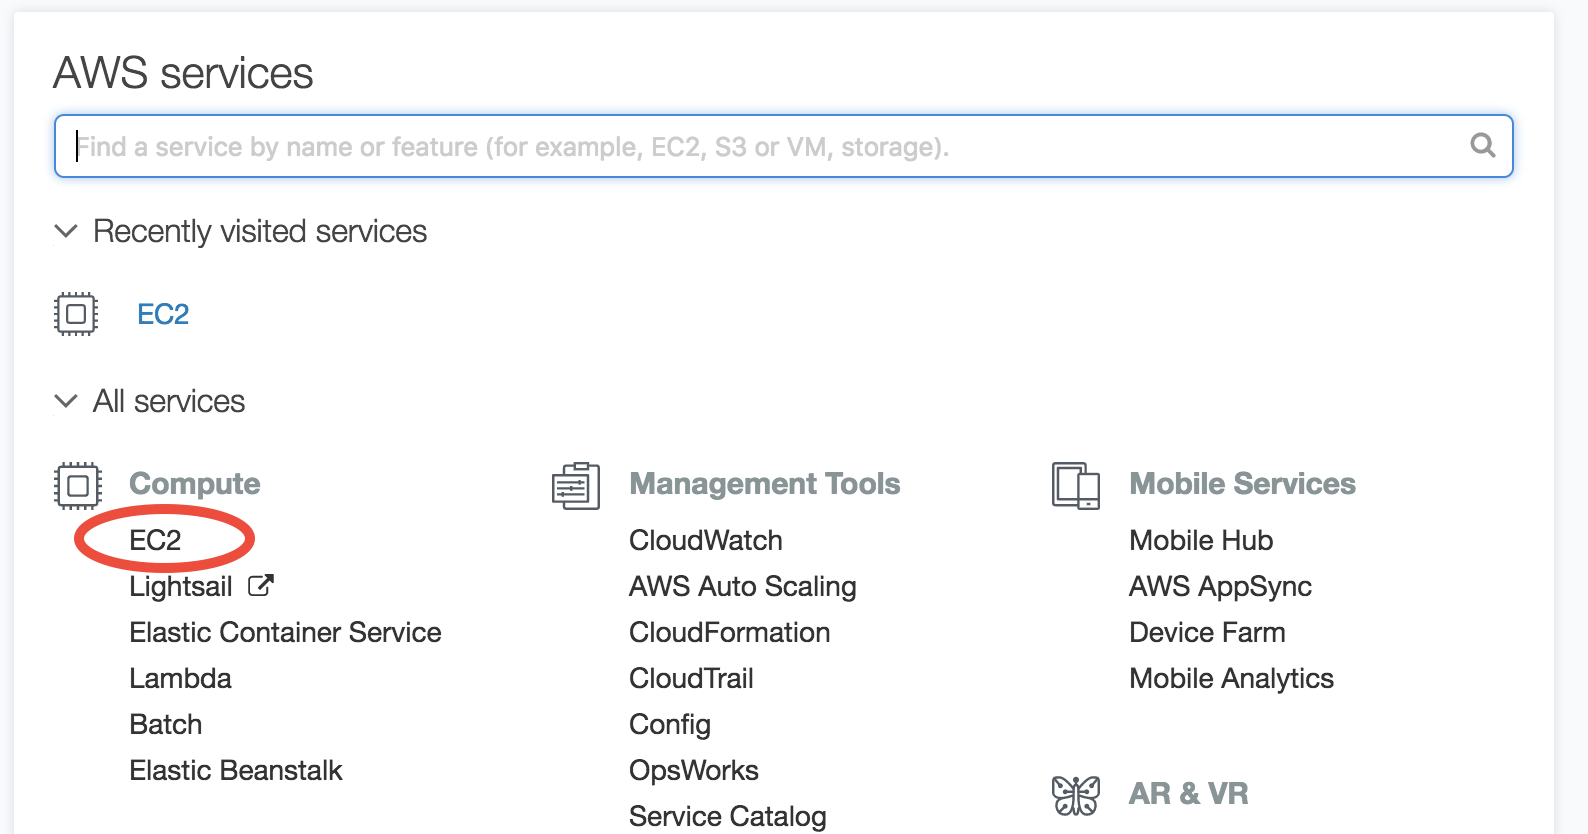
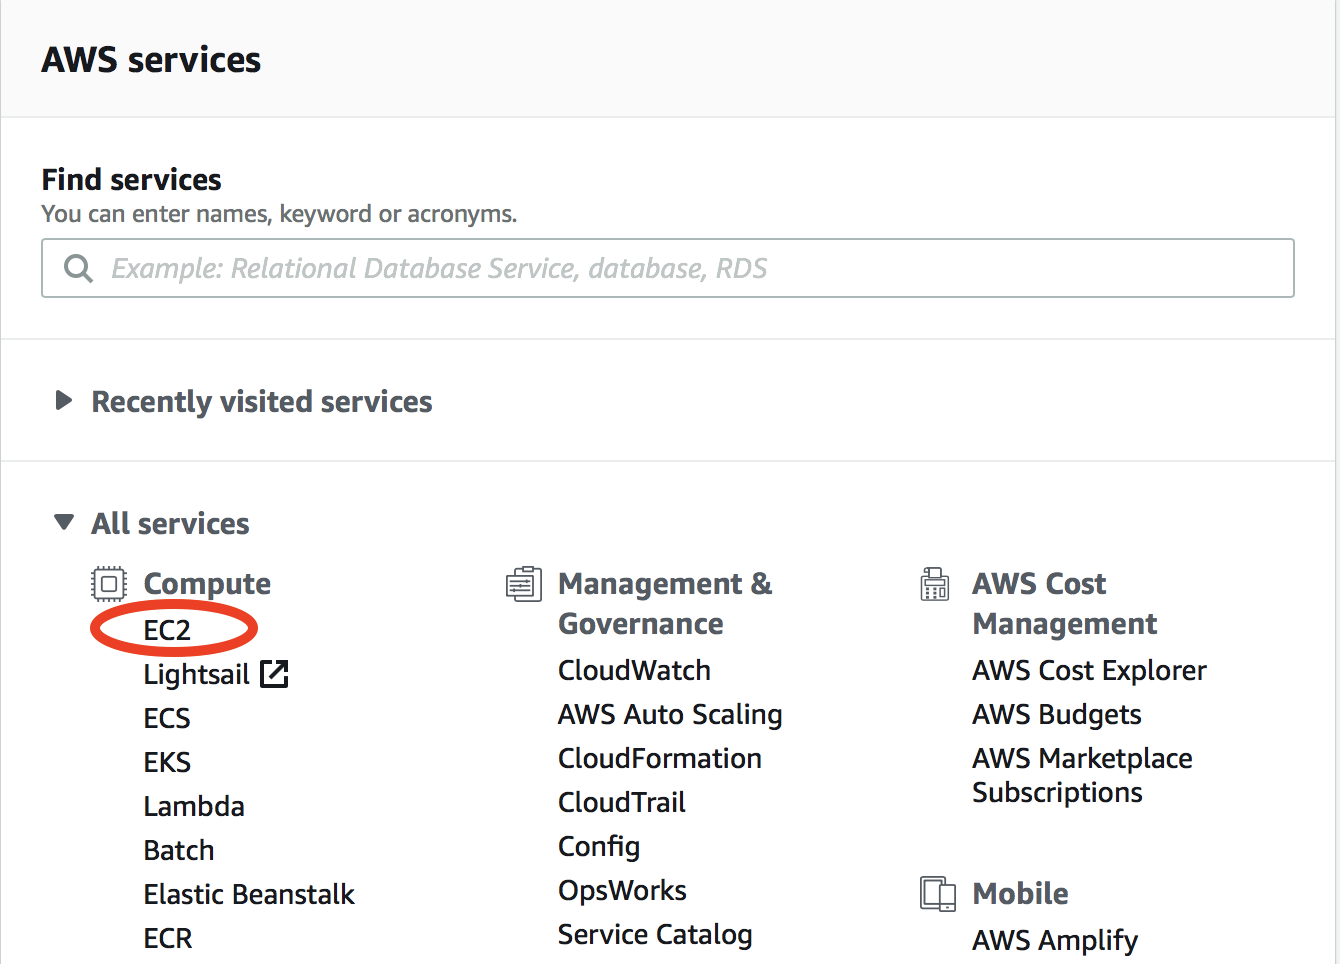
Update screenshots for new console

diff --git a/doc/source/chapter02_beginner-tutorial/basic-aws-services.rst b/doc/source/chapter02_beginner-tutorial/basic-aws-services.rst
@@ -6,19 +6,18 @@ In the :ref:`quick start guide <quick-start-label>`, you have used **EC2 (Elasti
 AWS has hundreds of services (shown in the main console; see the figure below), and EC2 is just one of them. Fortunately, a tiny subset of services is enough for scientific computing. The most important services are **EC2** for compute and **S3** for storage. Tons of other services are targeted at IT/Business applications that scientists can safely ignore:
 
 .. image:: img/aws_services.png
+  :width: 600 px
 
 Core AWS concepts for scientific computing
 ------------------------------------------
 
 In this section you will familiarize yourself with the following concepts and their costs: EC2, Spot Instances, AMI, EBS, S3, and Data egress charge.
 
-- `EC2 (Elastic Compute Cloud) <https://aws.amazon.com/ec2/>`_ is the major computing service. You can create any number of servers (called "EC2 instances" in AWS context). They are just like normal servers that you can ``ssh`` to, to perform various computing tasks. Unlike local servers that have fixed hardware capacity and static software environment, EC2 instances are highly-customizable. For hardware, there are tons of `EC2 instances types <https://aws.amazon.com/ec2/instance-types/>`_ with different capacities in CPUs, memory, and disk storage. For software, you can start with a brand new operating system, or use other people's system images as you did in the quick start guide. `The price of EC2 <https://aws.amazon.com/ec2/pricing/>`_ is roughly $0.01 /CPU/hour.
+- `EC2 (Elastic Compute Cloud) <https://aws.amazon.com/ec2/>`_ is the major computing service. You can create any number of servers (called "EC2 instances" in AWS context). They are just like normal servers that you can ``ssh`` to, to perform various computing tasks. Unlike local servers that have fixed hardware capacity and static software environment, EC2 instances are highly-customizable. For hardware, there are tons of `EC2 instances types <https://aws.amazon.com/ec2/instance-types/>`_ with different capacities in CPUs, memory, and disk storage. For software, you can start with a brand new operating system, or use other people's system images as you did in the quick start guide. `The price of EC2 <https://aws.amazon.com/ec2/pricing/>`_ is roughly $0.01 /CPU/hour. The cost can be reduced by ~70% with `spot pricing <https://aws.amazon.com/ec2/spot/>`_ (but with some caveats as :ref:`detailed later <spot-label>`).
 
 .. note::
   
   EC2 used to charge by hours but it now uses `per-second billing <https://aws.amazon.com/blogs/aws/new-per-second-billing-for-ec2-instances-and-ebs-volumes/>`_. That's a great saving for short simulations -- a 10-min simulation is only charged as 1/6 hour.
-
-- `Spot instances <https://aws.amazon.com/ec2/spot/>`_ are a special pricing model for EC2 that is `particularly suitable for scientific computing <https://aws.amazon.com/ec2/spot/spot-and-science/>`_. It can reduce EC2 cost by ~70%. You will learn how to use it later in this tutorial. 
 
 * `AMI (Amazon Machine Image) <https://docs.aws.amazon.com/AWSEC2/latest/UserGuide/AMIs.html>`_ is a frozen system image of an EC2 instance. It contains the operating system, the software libraries, and all the files on a server. An AMI can be used to create any number of EC2 instances. Once a model is configured and saved as an AMI, any researchers can replicate the same environment and start using the model instantly. Some good examples are the `Deep Learning AMI <https://aws.amazon.com/marketplace/pp/B077GCH38C>`_ and the `OpenFOAM AMI <https://aws.amazon.com/marketplace/pp/B017AHYO16>`_.
 

diff --git a/doc/source/chapter02_beginner-tutorial/quick-start.rst b/doc/source/chapter02_beginner-tutorial/quick-start.rst
@@ -25,9 +25,10 @@ Your AWS account should be available in a few minutes. (Occasionally, the accoun
 Step 2: Launch a server with GEOS-Chem pre-installed
 ----------------------------------------------------
 
-Log in to AWS console, and click on EC2 (Elastic Compute Cloud), which is the most basic cloud computing service.
+Log in to AWS console, and click on EC2 (Elastic Compute Cloud), which is the most fundamental cloud computing service.
 
 .. figure:: img/main_console.png
+  :width: 600 px
 
 In the EC2 console, make sure you are in the **US East (N. Virginia)** region as shown in the upper-right corner of your console. Choosing a region closer to your physical location will give you better network. To keep this tutorial minimal, I built the system in only one region. But working across regions is not hard.
 
